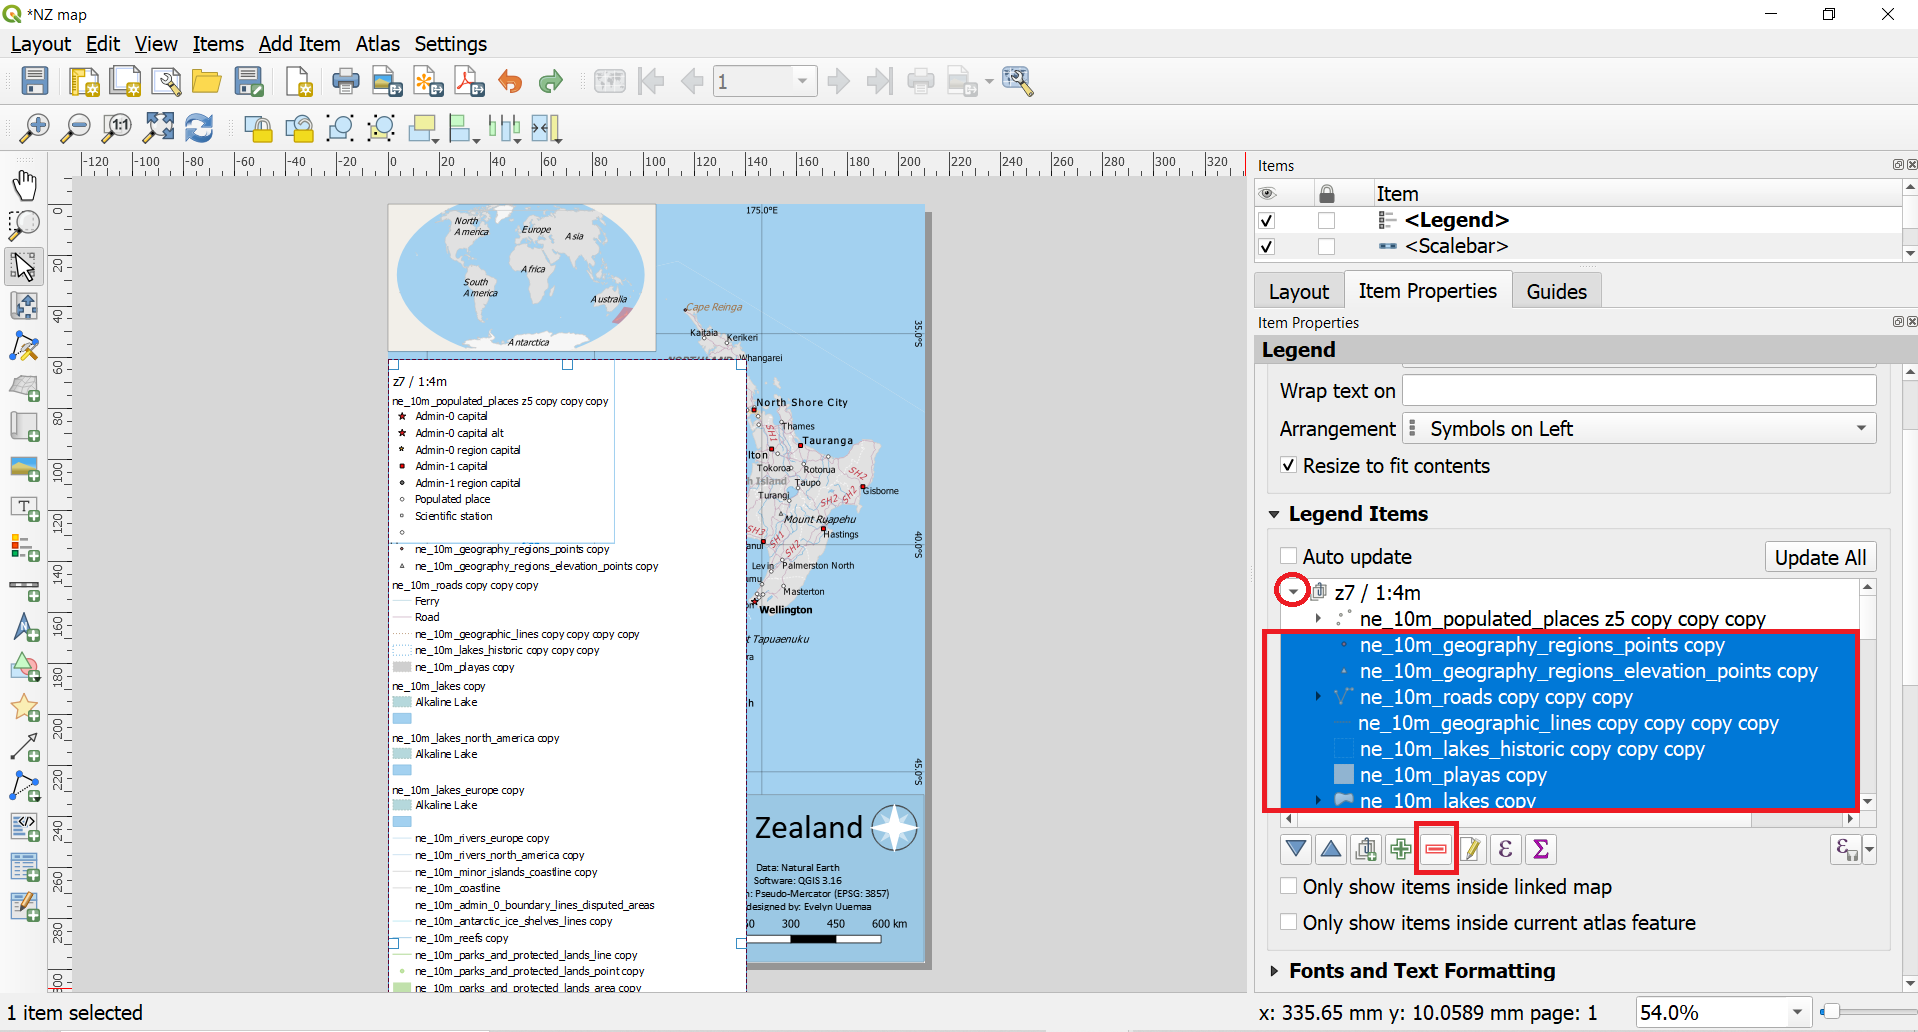
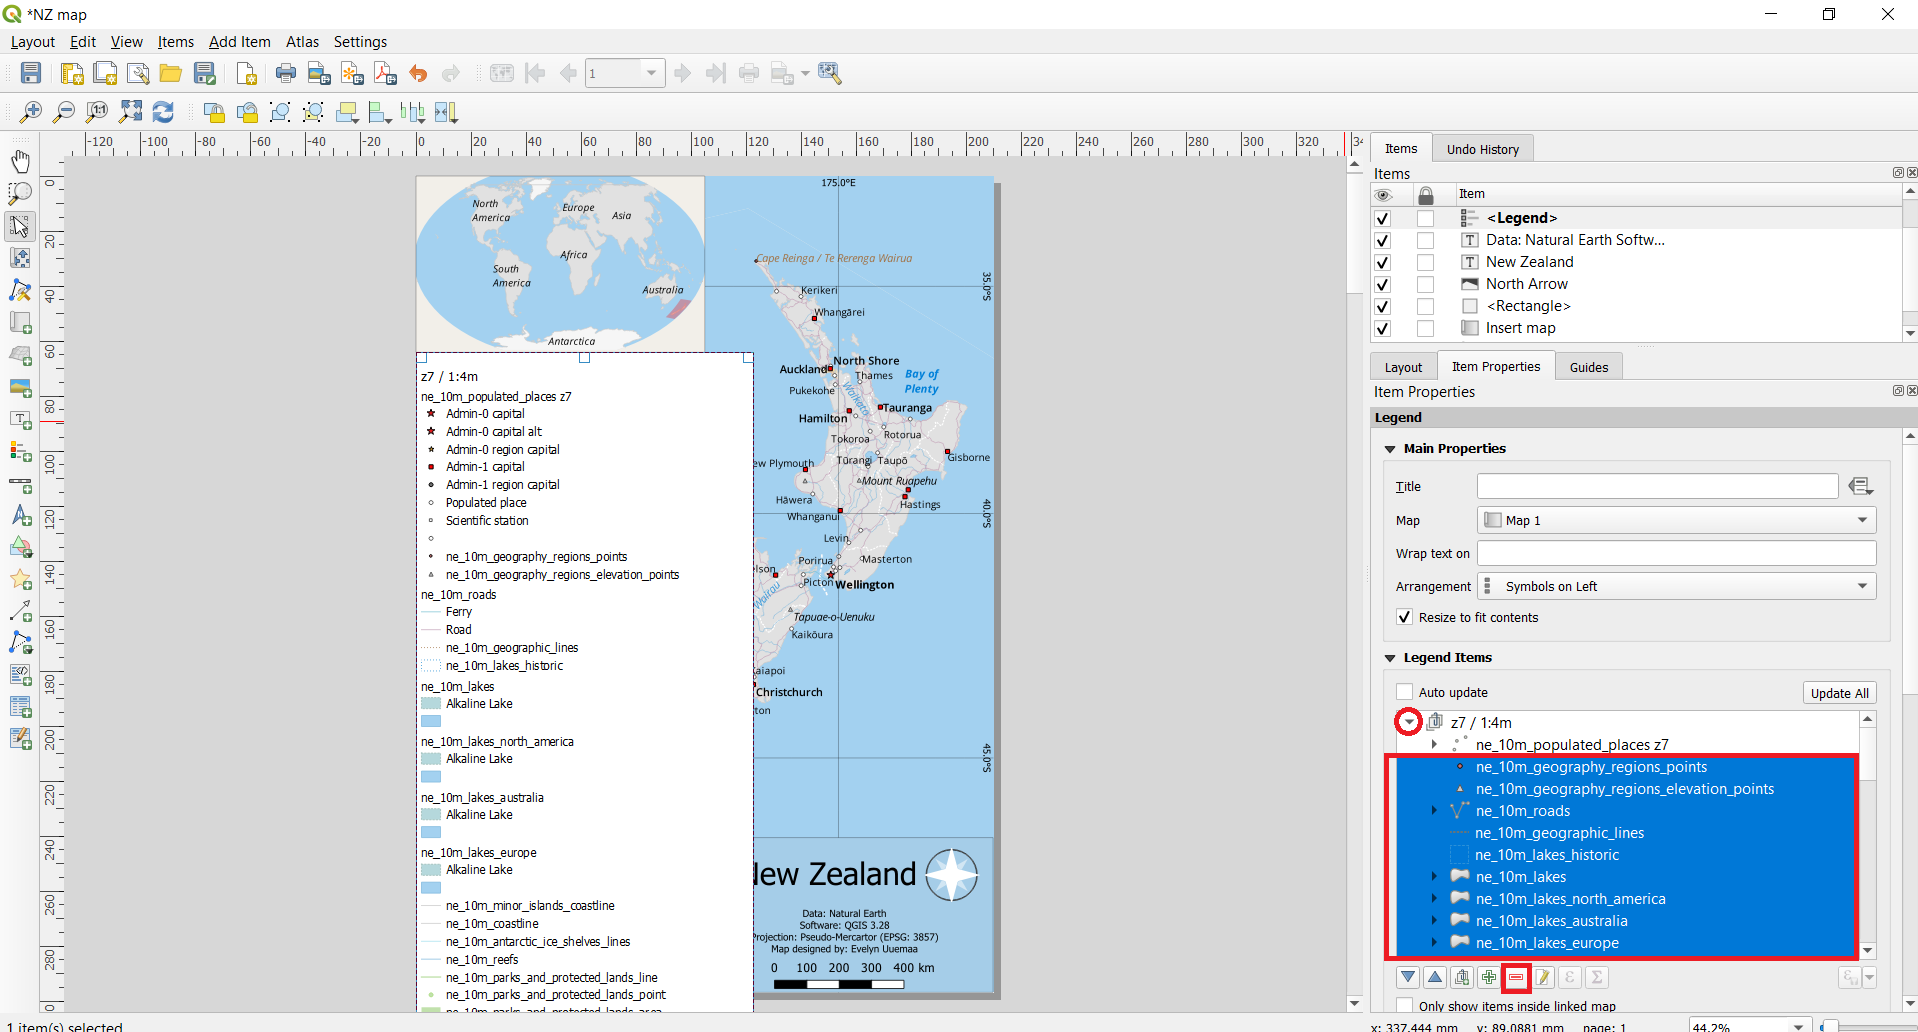
making a map piltide muutmised

Changed region(s): [[0.0, 0.031, 1.0, 1.0], [0.9844, 0.155, 1.0, 0.186]]

diff --git a/_posts/qgis/2022-08-11-making-a-map.md b/_posts/qgis/2022-08-11-making-a-map.md
@@ -31,7 +31,7 @@ Download the [<span style="color:#0564A0">Natural Earth Quickstart Kit</span>](h
 
 ### 2. Steps to make a map
 #### 2.1. Creating the main map
-1. Download and extract the Natural Earth Quick Start Kit data. Open QGIS. Locate the <span style="font-family:Consolas; color:#AF1B03">Natural_Earth_quick_start</span> folder in the Browser panel. Expand the folder to locate the <span style="font-family:Consolas; color:#AF1B03">Natural_Earth_quick_start_for_QGIS_v3</span> project. This is the project file that contains styled layers in QGIS Document format. Double-click the project to open it.
+1. Download and extract the Natural Earth Quick Start Kit data. Open QGIS. Locate the <span style="font-family:Consolas; color:#AF1B03">Natural_Earth_quick_start</span> folder in the Browser panel. Expand the folder to locate the <span style="font-family:Consolas; color:#AF1B03">Natural_Earth_quick_start_for_QGIS_v3</span> project. This is the project file that contains styled layers in QGIS Document format. Double-click the project to open it. If some layers are unavailable, just click "Remove Unavailable Layers".
 ![image of browse data ](../../images/2_browse_data.png)
 2. The state of your QGIS session is called a project. QGIS works on one project at a time.  Please save your project `Project ► Save as` into your folder. The information saved in a project file includes added layers, layer properties and symbology, projection of the map view, print layouts etc. Read more about QGIS project from [<span style="color:#0564A0">QGIS Documentation</span>](https://docs.qgis.org/3.28/en/docs/user_manual/introduction/project_files.html#working-with-project-files).
 3. You may notice that the map labels are in Greek. This project uses variables to set the language.  We can change the variables by going to `Project ► Properties`. Switch to the `Variables` tab in the `Project Properties` dialog. Locate the **project_language** variable and change the language to <span style="font-family:Consolas">name_en</span> and click OK. The place names should now switch to English. If they do not then click the Refresh button ![image of browse data](../../images/icon_refresh.png) in the toolbar. ![image of refresh icon](../../images/2_language-prop.png)
@@ -94,13 +94,13 @@ Download the [<span style="color:#0564A0">Natural Earth Quickstart Kit</span>](h
 ![image of add legend](../../images/2_add legend.png)
 29. We will first remove all the unnecessary layers from the legend. Under the Legend items, select all layers except <span style="font-family:Consolas; color:#AF1B03">z7 / 1:4</span> and click Remove selected item(s) from legend.
 ![image of add legend](../../images/2_delete legend items.png)
-30. For the simplicity, we will show only cities and other populated places in the legend. Therefore we will delete all other sublayers of the <span style="font-family:Consolas; color:#AF1B03">z7 / 1:4</span>. Click on the small arrow next to the layer group name under Legend items. This should reveal sublayers of the group. Delete all sublayers of the <span style="font-family:Consolas; color:#AF1B03">z7 / 1:4</span> except layer <span style="font-family:Consolas; color:#AF1B03">ne_10m_populated_places z5 copy copy copy</span>
+30. For the simplicity, we will show only cities and other populated places in the legend. Therefore we will delete all other sublayers of the <span style="font-family:Consolas; color:#AF1B03">z7 / 1:4</span>. Click on the small arrow next to the layer group name under Legend items. This should reveal sublayers of the group. Delete all sublayers of the <span style="font-family:Consolas; color:#AF1B03">z7 / 1:4</span> except layer <span style="font-family:Consolas; color:#AF1B03">ne_10m_populated_places z7</span>
 ![image of add legend](../../images/2_delete legend items2.png)
-31. Click on the small arrow in front of the layer <span style="font-family:Consolas; color:#AF1B03">ne_10m_populated_places z5 copy copy copy</span> to see all of its sublayers. Delete all sublayers except <span style="font-family:Consolas; color:#AF1B03">Admin-0 capital, Admin-1 capital, Populated place</span>.
+31. Click on the small arrow in front of the layer <span style="font-family:Consolas; color:#AF1B03">ne_10m_populated_places z7</span> to see all of its sublayers. Delete all sublayers except <span style="font-family:Consolas; color:#AF1B03">Admin-0 capital, Admin-1 capital, Populated place</span>.
 ![image of add legend](../../images/2_delete legend items3.png)
 32. We will now change the names of the legend items more appropriate. Double click on the <span style="font-family:Consolas; color:#AF1B03">z7 / 1:4m</span> and delete the text and just enter space. The QGIS won't accept leaving the place empty but as we don't need text there then entering space will allow it to keep seemingly empty.
 ![image of rename legend items](../../images/2_rename legend items.png).
-33. Delete also the layer name of <span style="font-family:Consolas; color:#AF1B03">ne_10m_populated_places z5 copy copy copy</span> similarly to previous step.
+33. Delete also the layer name of <span style="font-family:Consolas; color:#AF1B03">ne_10m_populated_places z7</span> similarly to previous step.
 34. Rename layer name <span style="font-family:Consolas; color:#AF1B03">Admin-0 capital</span> to <span style="font-family:Consolas; color:#AF1B03">Capital city</span>, layer name <span style="font-family:Consolas; color:#AF1B03">Admin-1 capital</span> to <span style="font-family:Consolas; color:#AF1B03"> Administrative unit capital</span>.
 ![image of rename legend items](../../images/2_rename legend items2.png)
 35. Because of deleting some of the layer names, there is too much white space on the top of the legend. We will remove this by using Spacing options under Legend properties. Scroll down in the Legend Item properties tab to Spacing. Open it's options by clicking on a small arrow next to it. Change the value of Legend Title ‣ Space below to zero and Subgroups ‣ Above subgroup also zero. Note while doing that how the legend changes.
